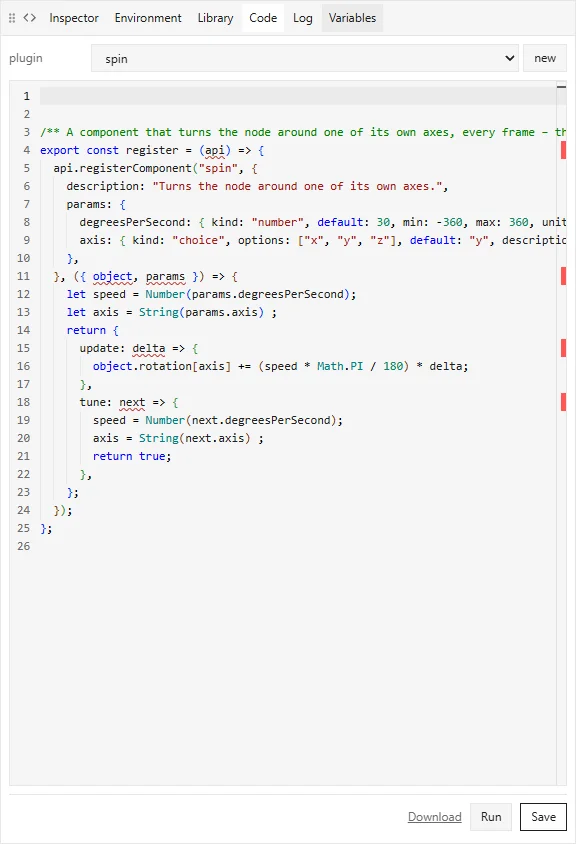
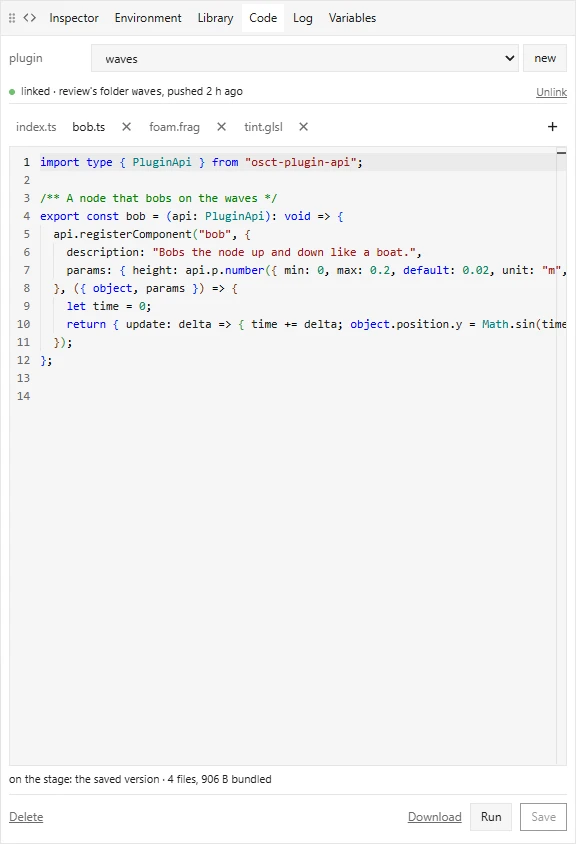
6.12.1: the documentation site knows plugins of several files (#352)
The Code tab guide: file tabs (a new screenshot), adding, renaming and deleting a file, Undo, the type
check at Publish, developing in your own folder with osct plugin link/push/pull. The plugin API guide:
a plugin of several files, shaders as files. History and the Library on plugins; docs/mcp.md on
put_plugin's files; the MCP and content references generated again.

diff --git a/client/public/docs/api/mcp/reference/index.html b/client/public/docs/api/mcp/reference/index.html
@@ -5,7 +5,7 @@
   <meta charset="utf-8">
   <meta name="viewport" content="width=device-width, initial-scale=1, viewport-fit=cover">
   <title>MCP tools reference – OSCT docs</title>
-  <meta name="description" content="Every tool of the OSCT MCP server (56) with its parameters: reading, scenes, targets, texts, files, plugins, import, history, render_scene, publish.">
+  <meta name="description" content="Every tool of the OSCT MCP server (57) with its parameters: reading, scenes, targets, texts, files, plugins, import, history, render_scene, publish.">
   <meta name="robots" content="noindex">
   <link rel="icon" href="/favicon.ico">
   <link rel="stylesheet" href="/docs/docs.css">
@@ -16,7 +16,7 @@
 <main class="reference">
   <p class="kicker">API</p>
   <h1>MCP tools reference</h1>
-  <p class="lead">All 56 tools of the MCP server with their parameters, straight from the server's own definitions. For connecting an agent and the rules it works under, read the <a href="/docs/api/mcp/">MCP server</a> guide first.</p>
+  <p class="lead">All 57 tools of the MCP server with their parameters, straight from the server's own definitions. For connecting an agent and the rules it works under, read the <a href="/docs/api/mcp/">MCP server</a> guide first.</p>
   <nav id="toc" aria-label="On this page"></nav>
   <div class="table"><table>
     <tr><th>Area</th><th>Tools</th></tr>
@@ -31,6 +31,7 @@
     <tr><td><a href="#import">New experiences, import and deliveries</a></td><td class="wrap"><a href="#create_experience"><code>create_experience</code></a> · <a href="#preview_import"><code>preview_import</code></a> · <a href="#import_experience"><code>import_experience</code></a> · <a href="#preview_delivery"><code>preview_delivery</code></a> · <a href="#import_delivery"><code>import_delivery</code></a> · <a href="#list_deliveries"><code>list_deliveries</code></a></td></tr>
     <tr><td><a href="#history">History</a></td><td class="wrap"><a href="#list_changes"><code>list_changes</code></a> · <a href="#list_versions"><code>list_versions</code></a> · <a href="#revert_change"><code>revert_change</code></a> · <a href="#revert_to"><code>revert_to</code></a></td></tr>
     <tr><td><a href="#seeing">Seeing and publishing</a></td><td class="wrap"><a href="#render_scene"><code>render_scene</code></a> · <a href="#publish"><code>publish</code></a> · <a href="#publish_status"><code>publish_status</code></a> · <a href="#activate_version"><code>activate_version</code></a></td></tr>
+    <tr><td><a href="#other">Other</a></td><td class="wrap"><a href="#put_experience_landing"><code>put_experience_landing</code></a></td></tr>
   </table></div>
 
   <h2 id="start">Start</h2>
@@ -432,15 +433,15 @@
 
   <h2 id="plugins">Plugins</h2>
   <h3 id="list_plugins"><code>list_plugins</code> <span class="who">reads</span></h3>
-  <p>The experience's plugin sources (the Code tab, the Library's scripts).</p>
+  <p>The experience's plugins (the Code tab, the Library's scripts).</p>
   <pre><code>list_plugins { experience }</code></pre>
   <div class="table"><table>
     <tr><th>Parameter</th><th>Type</th><th>What</th></tr>
     <tr id="list_plugins-experience"><td><code>experience</code></td><td class="wrap"><code>string</code></td><td class="wrap">the experience's id (list_experiences)</td></tr>
   </table></div>
-  <details><summary>Details</summary><p>id, size, usages (the draft's rows that use a type it registers), who saved it, when – without the source (get_plugin).</p></details>
+  <details><summary>Details</summary><p>id, size and fileCount (a plugin is a folder of files), origin (linked: the folder <code>osct plugin push</code> sends it from), usages (the draft's rows that use a type it registers), who saved it, when – without the files (get_plugin).</p></details>
   <h3 id="get_plugin"><code>get_plugin</code> <span class="who">reads</span></h3>
-  <p>One plugin source with the component, layer, node and pass types it registers (read from the text).</p>
+  <p>One plugin with its files ([{ name, text }], index.ts first – TypeScript and shader files) and the component, layer, node and pass types it registers (read from its files).</p>
   <pre><code>get_plugin { experience, plugin }</code></pre>
   <div class="table"><table>
     <tr><th>Parameter</th><th>Type</th><th>What</th></tr>
@@ -448,17 +449,18 @@
     <tr id="get_plugin-plugin"><td><code>plugin</code></td><td class="wrap"><code>string</code></td><td class="wrap">the plugin's id, e.g. tint</td></tr>
   </table></div>
   <h3 id="put_plugin"><code>put_plugin</code> <span class="who">writes</span></h3>
-  <p>Saves a plugin source (new or changed; at most 256 KB; a change is recorded).</p>
-  <pre><code>put_plugin { experience, plugin, source }</code></pre>
+  <p>Saves a plugin (new or changed; a change is recorded).</p>
+  <pre><code>put_plugin { experience, plugin, files?, source? }</code></pre>
   <div class="table"><table>
     <tr><th>Parameter</th><th>Type</th><th>What</th></tr>
     <tr id="put_plugin-experience"><td><code>experience</code></td><td class="wrap"><code>string</code></td><td class="wrap">the experience's id (list_experiences)</td></tr>
     <tr id="put_plugin-plugin"><td><code>plugin</code></td><td class="wrap"><code>string</code></td><td class="wrap">the plugin's id, e.g. tint</td></tr>
-    <tr id="put_plugin-source"><td><code>source</code></td><td class="wrap"><code>string</code></td><td class="wrap">the TypeScript source</td></tr>
+    <tr id="put_plugin-files"><td><code>files</code> <span class="muted">optional</span></td><td class="wrap"><code>{ name, text }[]</code></td><td class="wrap">every file of the plugin; one left out is deleted</td></tr>
+    <tr id="put_plugin-source"><td><code>source</code> <span class="muted">optional</span></td><td class="wrap"><code>string</code></td><td class="wrap">a plugin of one file: its index.ts</td></tr>
   </table></div>
-  <details><summary>Details</summary><p>TypeScript that exports register(api) – see osct://guides/plugins: api.registerLayer(type, spec, { glsl }) for a material layer, api.registerComponent(type, spec, apply) for code on a node, api.registerNodeType(type, spec, build) for a node type of its own, api.three for three.js (never import it), api.loadText(url) for a shader file of the Library (upload_asset, kind shader – in a material's or pass's build, never a layer's glsl), api.feedback({ width, height, fragment }) for a GPU feedback buffer and api.shadertoy(source) for a Shadertoy pass as its fragment (plugin API 1.6). Nothing runs here: the person presses Run in the Code tab to see it on the stage; readers get the saved source with the person's next Publish in the editor (transpiled, not type-checked).</p></details>
+  <details><summary>Details</summary><p>A plugin is a folder of files (#352): <code>files</code> = all of them [{ name, text }] – index.ts (it exports register(api)), TypeScript it imports by ./name, shader files (.frag, .vert, .glsl, .wgsl) it imports as strings (import WATER from &quot;./water.frag&quot;) – a file left out is deleted; or <code>source</code> = a plugin of one file (index.ts). At most 256 KB a file, 1 MB together, 32 files. See osct://guides/plugins: api.registerLayer(type, spec, { glsl }) for a material layer, api.registerComponent(type, spec, apply) for code on a node, api.registerNodeType(type, spec, build) for a node type of its own, api.three for three.js (never import it), api.loadText(url) for a shader file of the Library several plugins share (upload_asset, kind shader), api.feedback({ width, height, fragment }) for a GPU feedback buffer and api.shadertoy(source) for a Shadertoy pass as its fragment (plugin API 1.6). Nothing runs here: the person presses Run in the Code tab to see it on the stage; readers get the saved files with the person's next Publish in the editor (type-checked and bundled there).</p></details>
   <h3 id="upload_plugin"><code>upload_plugin</code> <span class="who">writes</span></h3>
-  <p>Uploads a script file from this computer (.ts or .js, at most 256 KB, UTF-8 text) as a plugin source – what the editor's Library does with a dropped script.</p>
+  <p>Uploads a script file from this computer (.ts or .js, at most 256 KB, UTF-8 text) as a plugin of one file (its index.ts) – what the editor's Library does with a dropped script; `replace.</p>
   <pre><code>upload_plugin { experience, file, plugin?, replace? }</code></pre>
   <div class="table"><table>
     <tr><th>Parameter</th><th>Type</th><th>What</th></tr>
@@ -467,7 +469,7 @@
     <tr id="upload_plugin-plugin"><td><code>plugin</code> <span class="muted">optional</span></td><td class="wrap"><code>string</code></td><td class="wrap">the plugin's id (default: from the file's name)</td></tr>
     <tr id="upload_plugin-replace"><td><code>replace</code> <span class="muted">optional</span></td><td class="wrap"><code>boolean</code></td><td class="wrap">true: the file replaces the source of an existing plugin</td></tr>
   </table></div>
-  <details><summary>Details</summary><p>The id is <code>plugin</code> or the file's name (<code>Wobble Effect.ts</code> → wobble-effect); an id that exists is refused (409 plugin-exists) unless <code>replace: true</code>, which makes the file that plugin's new source. A change is recorded. Answers the plugin and the types it registers (read from its text).</p></details>
+  <details><summary>Details</summary><p>true<code> makes it an existing plugin's index.ts (its other files stay). For a plugin of several files: put_plugin with files. The id is </code>plugin<code> or the file's name (</code>Wobble Effect.ts<code> → wobble-effect); an id that exists is refused (409 plugin-exists) unless </code>replace: true`, which makes the file that plugin's new source. A change is recorded. Answers the plugin and the types it registers (read from its text).</p></details>
   <h3 id="plugin_usages"><code>plugin_usages</code> <span class="who">reads</span></h3>
   <p>Where the draft uses what a plugin source registers – the experience's passes, scenes, targets, shared entities and entries that name one of its types – and those types.</p>
   <pre><code>plugin_usages { experience, plugin }</code></pre>
@@ -635,6 +637,19 @@
     <tr id="activate_version-build"><td><code>build</code></td><td class="wrap"><code>string</code></td><td class="wrap">the version's build (list_versions)</td></tr>
   </table></div>
   <details><summary>Details</summary><p><code>build</code> (list_versions) becomes the version readers get on their next start – versions.json and latest.json switch back, a row in the publish log says who did it. Builds are kept in the store, the draft is not changed. Ask the person first, naming the version's time and the environment. Signed in with an AI connection's token (osct_…) the API refuses it (403 not-for-ai): then the person does it in the editor (experiences page → the book's Versions). 404 unknown-build (not in this environment's publish log), 409 already-live, publish-running, build-missing (purged from the store), unreadable-schema (a content schema today's reader cannot read).</p></details>
+
+  <h2 id="other">Other</h2>
+  <h3 id="put_experience_landing"><code>put_experience_landing</code> <span class="who">writes</span></h3>
+  <p>Picks the desktop landing's hero (content schema 6.1, #355).</p>
+  <pre><code>put_experience_landing { experience, scene?, target?, remove? }</code></pre>
+  <div class="table"><table>
+    <tr><th>Parameter</th><th>Type</th><th>What</th></tr>
+    <tr id="put_experience_landing-experience"><td><code>experience</code></td><td class="wrap"><code>string</code></td><td class="wrap">the experience's id (list_experiences)</td></tr>
+    <tr id="put_experience_landing-scene"><td><code>scene</code> <span class="muted">optional</span></td><td class="wrap"><code>string</code></td><td class="wrap">the scene's id</td></tr>
+    <tr id="put_experience_landing-target"><td><code>target</code> <span class="muted">optional</span></td><td class="wrap"><code>string</code></td><td class="wrap">the id of a target on that scene with AR content (a model, a video, a component)</td></tr>
+    <tr id="put_experience_landing-remove"><td><code>remove</code> <span class="muted">optional</span></td><td class="wrap"><code>boolean</code></td><td class="wrap">true removes the pick</td></tr>
+  </table></div>
+  <details><summary>Details</summary><p>one target with AR content (a model, a video, a plugin's node type or a node a component drives) on one scene – the landing's book opens on the scene's surface the target lies on and its content rises from its print. The tool extracts the hero from the draft as the editor does (the surface, its prints, the target's entity, the print layout's pictures, the experience's plugins and looks) and saves it with the pick in experience.landing; publish writes the version's landing.json from it. A target without AR content (marginalia, a link, a target without an entity) is refused. remove: true removes the pick – the landing shows the experience's first model again. Re-run it after the entity, the prints or the looks changed (the editor's Inspector says when the stored hero is out of date). The change is recorded.</p></details>
   <footer id="pager"></footer>
 </main>
 </body>

diff --git a/client/public/docs/guide/code/index.html b/client/public/docs/guide/code/index.html
@@ -15,7 +15,7 @@
 <main>
   <p class="kicker">Editor guide</p>
   <h1>The Code tab</h1>
-  <p class="lead">The Code tab holds the experience's plugins: TypeScript that adds components, node types, materials, passes and looks. You try code on the stage with Run and keep it with Save.</p>
+  <p class="lead">The Code tab holds the experience's plugins: TypeScript that adds components, node types, materials, passes and looks. A plugin can be one file or a few – each is a tab. You try code on the stage with Run and keep it with Save.</p>
   <nav id="toc" aria-label="On this page"></nav>
   <p>What a plugin can do is in the <a href="/docs/api/plugins/">Plugin API</a>; this page is about the tab.</p>
   <h2 id="tab">The tab</h2>
@@ -23,27 +23,39 @@
     <div>
       <ul>
         <li><b>Plugin</b>: pick one of the experience's plugins. <b>new</b> starts one with two examples. An asterisk marks unsaved edits (<i>spin*</i>).</li>
-        <li><b>The editor</b> knows the plugin API: completion (<kbd>Ctrl</kbd>+<kbd>Space</kbd>), documentation on hover, type errors underlined.</li>
-        <li><b>On the stage</b>: the line under the editor says what of this plugin runs there: <i>the saved version</i>, <i>edits not saved</i>, <i>failed</i>, or <i>not loaded</i>.</li>
-        <li><b>Run</b> (<kbd>Ctrl</kbd>+<kbd>Enter</kbd>): tries the text on the stage, saved or not.</li>
-        <li><b>Save</b> (<kbd>Ctrl</kbd>+<kbd>S</kbd>): stores the source and runs it.</li>
-        <li><b>Download</b>: the plugin as a zip with its types, to work on in your own editor.</li>
-        <li><b>Delete</b>: refused while the draft uses something the plugin registers.</li>
+        <li><b>The files</b>: one tab each, <code>index.ts</code> first. See <a href="#files">The plugin's files</a>.</li>
+        <li><b>The editor</b> knows the plugin API: completion (<kbd>Ctrl</kbd>+<kbd>Space</kbd>), documentation on hover, type errors underlined – also across the plugin's files.</li>
+        <li><b>On the stage</b>: the line under the editor says what of this plugin runs there (<i>the saved version</i>, <i>edits not saved</i>, <i>failed</i>, <i>not loaded</i>), how many files it has and how big its last bundle was.</li>
+        <li><b>Run</b> (<kbd>Ctrl</kbd>+<kbd>Enter</kbd>): tries the files on the stage, saved or not.</li>
+        <li><b>Save</b> (<kbd>Ctrl</kbd>+<kbd>S</kbd>): stores the files and runs them.</li>
+        <li><b>Download</b>: the plugin as a zip with its types, to work on in your own editor – or to drop into another experience.</li>
+        <li><b>Delete</b>: the whole plugin; refused while the draft uses something it registers.</li>
       </ul>
     </div>
     <figure>
-      <a href="/docs/img/code.webp"><img src="/docs/img/code.webp" width="576" height="844" alt="The Code tab with the spin plugin open." loading="lazy"></a>
-      <figcaption>The demo's <i>spin</i> plugin.</figcaption>
+      <a href="/docs/img/code.webp"><img src="/docs/img/code.webp" width="576" height="844" alt="The Code tab with a plugin of four files open: index.ts, bob.ts, foam.frag and tint.glsl as tabs, bob.ts shown, the line saying it is linked to a folder." loading="lazy"></a>
+      <figcaption>A plugin of four files, linked to someone's folder.</figcaption>
     </figure>
   </div>
 
+  <h2 id="files">The plugin's files</h2>
+  <p>A plugin is a folder of files. <code>index.ts</code> is its entry: it exports <code>register(api)</code> and keeps its name. Next to it can be more TypeScript files and shaders (<code>.frag</code>, <code>.vert</code>, <code>.glsl</code>, <code>.wgsl</code>).</p>
+  <ul>
+    <li><b>+</b> at the right of the tabs adds a file – a TypeScript file, a fragment or vertex shader, a GLSL include, WGSL – or uploads files from your computer. Files dropped on the tabs join the plugin.</li>
+    <li><b>Rename</b> a file with a double-click on its tab, <kbd>F2</kbd>, or its menu (right click).</li>
+    <li><b>The close cross deletes the file</b> right away, as a change of its own. <b>Undo</b> in the top bar brings it back (so does History). Your unsaved edits in the other files stay as they are.</li>
+    <li>In <code>index.ts</code>, bring in a file by its name: <code>import { wave } from "./wave"</code> for TypeScript, <code>import WATER from "./water.frag"</code> for a shader – you get its text.</li>
+    <li>A plugin's <b>zip</b> (from Download) dropped on the tabs or into the Library becomes a new plugin.</li>
+  </ul>
+  <p>Every save, push or delete of a plugin is in <b>History</b> and can be reverted there or with Undo – a deleted plugin comes back with all its files.</p>
+
   <h2 id="run">What Run does</h2>
   <ol>
-    <li>The TypeScript is turned into JavaScript in your browser. Types are removed, not checked.</li>
+    <li>The plugin's files are put together into one module in your browser (a plugin of several files loads a small bundler the first time). Types are removed, not checked.</li>
     <li>The stage loads it and registers what it adds, replacing the previous Run.</li>
     <li>The scene is built again. A new component now shows under <i>add component</i> in the Inspector, a pass under <i>add pass</i>, a node type under <i>+ node</i>.</li>
   </ol>
-  <p>Errors show under the editor and on their line. What ran before stays registered. The <b>log</b> below has the plugin's <code>api.log</code> lines and its errors on the stage.</p>
+  <p>Errors show under the editor and on their line – in another file, its tab comes forward. What ran before stays registered. The <b>log</b> below has the plugin's <code>api.log</code> lines and its errors on the stage.</p>
 
   <h2 id="saved">Saved sources load by themselves</h2>
   <p>Every time the workspace opens, the saved plugins are loaded onto the stage. Run is only for trying edits before you save them.</p>
@@ -51,12 +63,15 @@
 
   <h2 id="shipping">Reaching readers</h2>
   <ul>
-    <li><b>A Run reaches no reader. Publish does</b>: it carries every <b>saved</b> source.</li>
+    <li><b>A Run reaches no reader. Publish does</b>: it carries every <b>saved</b> plugin.</li>
     <li>Unsaved edits stay behind.</li>
-    <li>A source that does not compile stops the publish and names the line.</li>
-    <li>Type errors are <b>not</b> checked at publish. Fix what the editor underlines first.</li>
-    <li>A node that uses a component, node type, material, pass or look that no plugin provides stops the publish too.</li>
+    <li>Publish <b>checks the types</b> of every file first: a type error stops it and names the plugin, the file and the line.</li>
+    <li>A plugin that does not build stops the publish too, and so does a node that uses a component, node type, material, pass or look no plugin provides.</li>
+    <li>A plugin above 256 KB (bundled) is a warning in the publish, not a stop – readers download it with the AR scene.</li>
   </ul>
+
+  <h2 id="linked">Developing in your own folder</h2>
+  <p>A plugin can live in a folder on your computer, where your own editor and tools work on it. The <code>osct</code> command links the folder to a plugin of the experience: <code>osct plugin link</code> once, then <code>osct plugin push</code> sends the folder's files (it checks the types first; <code>--watch</code> sends every change). The stage runs them at once, and the Code tab shows a line <i>linked · … folder, pushed …</i>. Edits made in the Code tab are allowed – <code>osct plugin pull</code> brings them back to the folder. <i>Unlink</i> ends the link; the files stay. How to set it up: <a href="/docs/api/plugins/#own-folder">Plugin API · your own folder</a>.</p>
 
   <h2 id="safety">Where the code runs</h2>
   <div class="beside">

diff --git a/client/public/docs/api/content/index.html b/client/public/docs/api/content/index.html
@@ -5,7 +5,7 @@
   <meta charset="utf-8">
   <meta name="viewport" content="width=device-width, initial-scale=1, viewport-fit=cover">
   <title>Content model reference – OSCT docs</title>
-  <meta name="description" content="The OSCT content model, schema 6.0: scenes, entries, targets, node types, placement, components and rules, filters, passes and looks with every parameter.">
+  <meta name="description" content="The OSCT content model, schema 6.2: scenes, entries, targets, node types, placement, components and rules, filters, passes and looks with every parameter.">
   <meta name="robots" content="noindex">
   <link rel="icon" href="/favicon.ico">
   <link rel="stylesheet" href="/docs/docs.css">
@@ -16,7 +16,7 @@
 <main class="reference">
   <p class="kicker">API</p>
   <h1>Content model reference</h1>
-  <p class="lead">What an experience is made of, content schema 6.0: every built-in type with its parameters, their ranges and defaults. It is what the tool <code>describe_content_model</code> answers an agent, and what the editor's rows are built from.</p>
+  <p class="lead">What an experience is made of, content schema 6.2: every built-in type with its parameters, their ranges and defaults. It is what the tool <code>describe_content_model</code> answers an agent, and what the editor's rows are built from.</p>
   <nav id="toc" aria-label="On this page"></nav>
   <h2 id="experience">The experience</h2>
   <p>ExperienceData: { id, title, passes?, environment?, appearance?, book?, recognition? } – the experience, the top level of the content (content schema 4.0). book = BookData { author, publisher? }: the printed book it accompanies, print data only; none = not a book (a wall, a room, an exhibition). update_experience changes the title (the reader's splash, home page and account show it) and the printed book – its author and publisher (the splash shows them), book: null removes it. recognition (content schema 4.2): &quot;original&quot; (none = the default: the reader makes every target's recognition data from its printed image) or &quot;prepared&quot; (a target's frame made ahead where it has one) – update_experience recognition. Every experience adds, moves and removes its scenes in the editor.</p>
@@ -556,7 +556,7 @@
   <p>Picture credits (content schema 2.33, #292): no field of an entry or a node. A file's credit line (one free text line – &quot;Book Golem by TER-JAN / DeviantArt&quot;) is set in the Library with set_asset_credits and listed by list_assets; the experience's configuration carries the lines of the files it uses (credits: { &lt;file URL&gt;: &lt;line&gt; }), and the reader lists them per scene on its image credits page (Info → here).</p>
 
   <h2 id="plugin">Plugins</h2>
-  <p>A plugin source (the Code tab) exports register(api): api.registerLayer(type, spec, { glsl }) for a material layer, api.registerComponent(type, spec, apply) for code on a node, api.registerNodeType(type, spec, build) for a node type of its own, api.registerMaterial(type, spec, build) for a whole material (a ShaderMaterial …, plugin API 1.4), api.registerTexture(type, spec, draw) for a procedural texture, api.feedback({ width, height, fragment }) for a GPU feedback buffer the engine steps every frame and api.shadertoy(source) for a Shadertoy pass as its fragment (plugin API 1.6, in a build – nothing of it is recorded), api.three for three.js – never import three. The spec's params have kind (number | color | choice | boolean | string | texture | model), default, description and an optional label (the few words the editor's row shows, plugin API 1.3); nodeTypes narrows the node types. A parameter of kind model (plugin API 1.7, content schema 2.28) takes a model file – an uploaded glb / gltf asset's url or a /assets/content/… path, &quot;&quot; = none – which the plugin's code loads with api.loadModel(value). Plugin API 3.1 (content schema 5.1): api.p builds the params (p.number({ min, max, slider? }), p.integer, p.boolean, p.string, p.choice([…]), p.color, p.texture, p.model, p.file(kind)) and the handler's params are typed from them; min / max are hard limits, slider the soft range; a spec may declare actions (rule verbs it answers: play, pause, stop, show, hide – onAction), events (scene events it emits through its context's emit) and uses ({ listens, emits, reads, sets } – the Logic view's joins; plugin API 4.0, content schema 6.0: listens was hears). Read the resource osct://guides/plugins.</p>
+  <p>A plugin (the Code tab) is a folder of files (#352): index.ts exports register(api), TypeScript files next to it are imported by ./name, shader files (.frag, .vert, .glsl, .wgsl) as strings (import WATER from &quot;./water.frag&quot;) – put_plugin takes them all. api.registerLayer(type, spec, { glsl }) for a material layer, api.registerComponent(type, spec, apply) for code on a node, api.registerNodeType(type, spec, build) for a node type of its own, api.registerMaterial(type, spec, build) for a whole material (a ShaderMaterial …, plugin API 1.4), api.registerTexture(type, spec, draw) for a procedural texture, api.feedback({ width, height, fragment }) for a GPU feedback buffer the engine steps every frame and api.shadertoy(source) for a Shadertoy pass as its fragment (plugin API 1.6, in a build – nothing of it is recorded), api.three for three.js – never import three. The spec's params have kind (number | color | choice | boolean | string | texture | model), default, description and an optional label (the few words the editor's row shows, plugin API 1.3); nodeTypes narrows the node types. A parameter of kind model (plugin API 1.7, content schema 2.28) takes a model file – an uploaded glb / gltf asset's url or a /assets/content/… path, &quot;&quot; = none – which the plugin's code loads with api.loadModel(value). Plugin API 3.1 (content schema 5.1): api.p builds the params (p.number({ min, max, slider? }), p.integer, p.boolean, p.string, p.choice([…]), p.color, p.texture, p.model, p.file(kind)) and the handler's params are typed from them; min / max are hard limits, slider the soft range; a spec may declare actions (rule verbs it answers: play, pause, stop, show, hide – onAction), events (scene events it emits through its context's emit) and uses ({ listens, emits, reads, sets } – the Logic view's joins; plugin API 4.0, content schema 6.0: listens was hears). Read the resource osct://guides/plugins.</p>
   <div class="table"><table>
     <tr id="plugin-idPattern"><td><code>idPattern</code></td><td class="wrap">^[a-z][a-z0-9-]{0,39}$</td></tr>
   </table></div>

diff --git a/client/public/docs/api/plugins/index.html b/client/public/docs/api/plugins/index.html
@@ -126,9 +126,34 @@
     <tr><td>The node's own</td><td class="wrap">a node type's spec says <code>src: "glb" | "video" | "image" | "none"</code></td><td class="wrap"><code>asset</code> in <code>build</code></td></tr>
     <tr><td>A picture or video</td><td class="wrap">a <code>texture</code> parameter</td><td class="wrap">a <code>Texture</code> in <code>params</code></td></tr>
     <tr><td>A model</td><td class="wrap">a <code>model</code> parameter</td><td class="wrap">its address; <code>await api.loadModel(address)</code> → <code>{ scene, animations }</code></td></tr>
-    <tr><td>A shader</td><td class="wrap">upload it to the Library, <i>Copy URL</i></td><td class="wrap"><code>await api.loadText(url)</code></td></tr>
+    <tr><td>A shader of the plugin</td><td class="wrap">a file of the plugin (<code>.frag</code>, <code>.vert</code>, <code>.glsl</code>, <code>.wgsl</code>)</td><td class="wrap"><code>import WATER from "./water.frag"</code> – its text, at once (a layer's <code>glsl</code> too)</td></tr>
+    <tr><td>A shader several plugins share</td><td class="wrap">upload it to the Library, <i>Copy URL</i></td><td class="wrap"><code>await api.loadText(url)</code></td></tr>
   </table></div>
   <p>Loaded files are <b>shared</b> by every node that uses them: clone what you change, never dispose them. They arrive after <code>build</code> returns: start with what you have and apply the file when its promise resolves.</p>
+
+  <h2 id="several-files">A plugin of several files</h2>
+  <p>A plugin is a folder: <code>index.ts</code> and, when it grows, more files next to it. TypeScript files are brought in by their name, shaders as text:</p>
+  <pre><code>// index.ts
+import type { PluginApi } from "osct-plugin-api";
+import { bob } from "./bob";                // bob.ts
+import TINT from "./tint.glsl";              // the file's text
+
+export const register = (api: PluginApi): void => {
+  api.registerLayer("seaTint", { description: "Tints towards the sea.", params: {} }, { glsl: TINT });
+  bob(api);
+};</code></pre>
+  <ul>
+    <li>File names: letters, digits, <code>.</code>, <code>_</code>, <code>-</code>, ending in <code>.ts</code>, <code>.frag</code>, <code>.vert</code>, <code>.glsl</code> or <code>.wgsl</code>. No folders.</li>
+    <li>Nothing else can be imported – no package (three.js is <code>api.three</code>), only the plugin's own files and <code>import type</code>.</li>
+    <li>At most 256 KB a file, 1 MB a plugin, 32 files. Every build puts the files together into one module for the reader.</li>
+  </ul>
+
+  <h2 id="own-folder">Your own folder</h2>
+  <p>To develop a plugin with your own editor, tests and repository, link a folder to it with the <code>osct</code> command (in the repository's <code>scripts/</code>; <code>OSCT_API_URL</code> is the instance's API, <code>OSCT_EDITOR_TOKEN</code> a token from the editor's experiences page, <i>AI connections</i>):</p>
+  <pre><code>osct plugin link demo ./aquarium        # links the folder, pulls the plugin if it exists, adds the type files
+osct plugin push ./aquarium --watch      # checks the types, sends the files – again on every change
+osct plugin pull ./aquarium              # takes edits made in the editor back</code></pre>
+  <p>A push is a save like the Code tab's: it is in History, the stage runs it, and the Code tab shows the plugin as <i>linked</i>. Anyone who may edit the experience can still change it there; the later save wins, and <code>pull</code> brings it home. The folder's own files (<code>plugin-api.d.ts</code>, <code>shader-files.d.ts</code>, <code>tsconfig.json</code>, a README) stay in the folder.</p>
 
   <h2 id="shaders">Layers, materials, passes</h2>
   <ul>
@@ -154,9 +179,9 @@
 
   <h2 id="shipping">Shipping</h2>
   <ul>
-    <li><b>Publish</b> carries every saved source, compiled in the browser like a Run: no type check, one file per plugin.</li>
-    <li>The publish is refused when a node uses a type no plugin registers, or when a source does not compile.</li>
-    <li>Keep plugins small (a warning above 256 KB). Everything runs on the reader's phone: up to three passes and one bloom per scene.</li>
+    <li><b>Publish</b> carries every saved plugin: its files type-checked, then put together in the browser like a Run.</li>
+    <li>The publish is refused on a type error (with the plugin, file and line), when a plugin does not build, or when a node uses a type no plugin registers.</li>
+    <li>Keep plugins small (a warning above 256 KB bundled). Everything runs on the reader's phone: up to three passes and one bloom per scene.</li>
     <li>Unsubscribe in <code>dispose</code> what a component subscribed. Never emit a core event.</li>
   </ul>
 

diff --git a/client/public/docs/guide/library/index.html b/client/public/docs/guide/library/index.html
@@ -52,7 +52,7 @@
   <ul>
     <li><b>Pictures become WebP</b> in the browser, upright and scaled down: at most 1200 px for a target's printed image, 2048 px otherwise. The notice line says what became of the file.</li>
     <li><b>Videos and sounds</b> are stored as they are. Make their quality levels beforehand.</li>
-    <li><b>A <code>.ts</code> or <code>.js</code> file</b> becomes a plugin source in the Code tab. <b>A shader</b> (<code>.glsl</code>, <code>.frag</code>, <code>.vert</code>, <code>.wgsl</code>) becomes a file a plugin loads by its URL.</li>
+    <li><b>A <code>.ts</code> or <code>.js</code> file</b> becomes a plugin in the Code tab, <b>a plugin's zip</b> (its Download) a plugin with all its files. <b>A shader</b> (<code>.glsl</code>, <code>.frag</code>, <code>.vert</code>, <code>.wgsl</code>) becomes a file plugins load by its URL – a shader only one plugin uses can be a file of that plugin instead (the Code tab).</li>
     <li><b>Subtitles</b>: <code>speak.en.vtt</code> belongs to <code>speak.mp4</code> by its name.</li>
   </ul>
   <p>Files that belong together stand together: a model's texture in several sizes is one stacked tile, a video and its subtitles one frame.</p>

diff --git a/client/public/docs/guide/workspace/index.html b/client/public/docs/guide/workspace/index.html
@@ -84,7 +84,7 @@
         <li><b>History</b> (the clock): every saved change of the experience, newest first, by anyone, with filters for scene, kind and person.</li>
         <li>Click a row for <b>Revert</b> (that change) or <b>Jump back to here</b> (everything after it).</li>
       </ul>
-      <p>A revert changes the draft only. Readers see it with the next publish.</p>
+      <p>A revert changes the draft only. Readers see it with the next publish. Plugins are in it too: a save, a push from someone's folder, a file deleted in the Code tab, a whole plugin – each can be undone.</p>
     </div>
     <figure>
       <img src="/docs/img/history.webp" width="448" height="320" alt="The History panel: saved changes with date, what changed and who." loading="lazy">

diff --git a/mcp/src/user.ts b/mcp/src/user.ts
@@ -17,7 +17,7 @@ import { fail, failure, text } from "./result.ts";
 import { appLinks, fetchUser, servicesOf, type Services, type User } from "./services.ts";
 
 /** = mcp/package.json version (RULES #10: one version with the app) */
-export const VERSION = "6.12.0";
+export const VERSION = "6.12.1";
 
 export function createUserServer(config: Config, api: OsctApi, user: User | null): McpServer {
   let services: Services | null = user ? servicesOf(user.roles) : null;

diff --git a/server/api/src/Version.php b/server/api/src/Version.php
@@ -7,5 +7,5 @@ declare(strict_types=1);
  */
 final class Version
 {
-    public const APP = '6.12.0';
+    public const APP = '6.12.1';
 }

diff --git a/docs/mcp.md b/docs/mcp.md
@@ -174,7 +174,7 @@ Every result is JSON. Writes answer with `open`, the editor's link to check the 
 | `put_environment { experience, environment: { world, onionSky, worldSrc?, skySrc? } \| null }` | the world around the reader and the onion sky |
 | `list_assets { experience, kind? }` · `upload_asset { experience, file, name?, fit?, entry?, scene?, surface? }` · `set_asset_credits { experience, items: [{ url, credits }] }` · `rename_asset { experience, asset, name }` (#330 – one file's name by hand, an upload or an imported `import-…`; the URL stays) · `delete_asset { experience, asset, force? }` | the library: a local file becomes an asset whose `url` nodes and targets name – a picture (jpg, png, webp) under **the image rule** (#298, [content](content.md) "The image rule"): stored as WebP named `<name>.webp`, upright, metadata dropped, at most 2048 px, or 1200 px with `fit: "target"` (a target's printed image; `fit: "reference"` for a surface's reference image, 2048 px), `converted` in the answer says so – a shader (glsl, frag, vert, wgsl; kind `shader`, #186) one a plugin loads by its `url` (`api.loadText`). A video's subtitles (vtt; kind `subtitles`, #257) belong to the video by their name – `speak.en.vtt` for `speak.mp4` – and no node names them. `kind` is the API's: `glb`, `gltf`, `video`, `image`, `audio`, `shader`, `subtitles`; the list also holds the content import's files (`imported`, read-only) |
 | `plan_asset_names { experience }` · `apply_asset_names { experience }` | the Library's files **named by their use** (#298, [server](server.md#files-named-by-use)): `plan_asset_names` is read-only – the renames (`from → to`, the first use, `more`), shown to the person first; `apply_asset_names` makes the plan again and writes it. The name only, every URL stays; an imported file gets a listed name. `upload_asset` takes `entry` (with `fit: target` / `entryImage` → `<entry>_target.webp`, `<entry>_image.webp`) or `scene` + `surface` (with `fit: reference` → `<scene>_<surface>.webp`) to name a new upload so at once |
-| `list_plugins` · `get_plugin` · `put_plugin { experience, plugin, source }` · `upload_plugin { experience, file, plugin?, replace? }` · `plugin_usages { experience, plugin }` · `delete_plugin { experience, plugin, force? }` | the Code tab's sources (the Library's scripts); `put_plugin` names what the source registers and warns about a module the engine would refuse; `upload_plugin` makes a local `.ts` / `.js` file a source (its id from the file's name, `replace: true` for an existing one); `delete_plugin` is refused while the draft uses what it registers (409 `plugin-in-use`) unless `force` |
+| `list_plugins` · `get_plugin` · `put_plugin { experience, plugin, files \| source }` · `upload_plugin { experience, file, plugin?, replace? }` · `plugin_usages { experience, plugin }` · `delete_plugin { experience, plugin, force? }` | the Code tab's plugins (the Library's scripts) – a plugin is a folder of files (#352): `get_plugin` answers `files` [{ name, text }] (and `list_plugins` `fileCount`, `origin` when linked), `put_plugin` takes every file (`files`; one left out is deleted) or `source` for a plugin of one `index.ts`, names what the files register and warns about an import the engine would refuse; `upload_plugin` makes a local `.ts` / `.js` file a source (its id from the file's name, `replace: true` for an existing one); `delete_plugin` is refused while the draft uses what it registers (409 `plugin-in-use`) unless `force` |
 | `get_draft { experience, part? }` | the draft as the engine loads it: manifest, configuration or files |
 | `publish { experience, env?, note? }` | writes the draft into the experience's own store in the instance's own environment (the default; `GET /editor/environments` names it – #87: a publish never touches another experience) – an instance publishes nowhere else, another `env` is the API's 403 `other-environment`. The answer's `store` is `cdn` or `server`; with `server` it carries the `warning` (no CDN connected) for the person. **production is refused** – the person's button in the editor; with an AI connection's token every environment is refused (403 `not-for-ai`). The description names every refusal of the API's publish – 409 `unknown-components`, `unknown-node-types`, `unknown-materials`, `unknown-passes`, `unknown-appearances`; 400 `invalid-env`, `invalid-note`; 404 `not-found`; 502 `content-store-failed`, 500 `content-store-unconfigured`, 409 `publish-running` – and each answers with a `hint` (`result.ts` `PUBLISH_REFUSALS`, a test checks both). A publish is a job on the server (#345): the tool follows it up to 90 s and answers the outcome with `job`; when it still runs, `job` (phase, done / total, `live`) and `next` |
 | `publish_status { experience, job? }` | how a publish goes: its job (without `job` the experience's newest) – status, phase, done / total, `live`, the outcome when done, the error when failed; follows it up to 90 s while it runs (each poll writes the next part on a host where nothing runs on by itself) |

diff --git a/docs/CHANGELOG.md b/docs/CHANGELOG.md
@@ -8,6 +8,15 @@ Sections per version: *Added*, *Changed*, *Fixed*, *Removed* (only those that ap
 1.1.2 are in the git history.
 
 
+## 6.12.1 – 2026-11-23
+
+### Changed
+- **The documentation site knows plugins of several files** (#352): the Code tab guide shows the file tabs (a new
+  screenshot), how to add, rename and delete a file, that Undo brings a deleted file back, that Publish checks the
+  types, and how to develop a plugin in your own folder with `osct plugin link`, `push` and `pull`. The plugin API
+  guide has a plugin of several files and shaders as files; History and the Library say what they do with plugins now.
+  The MCP and content references are generated again.
+
 ## 6.12.0 – 2026-11-23
 
 ### Added
